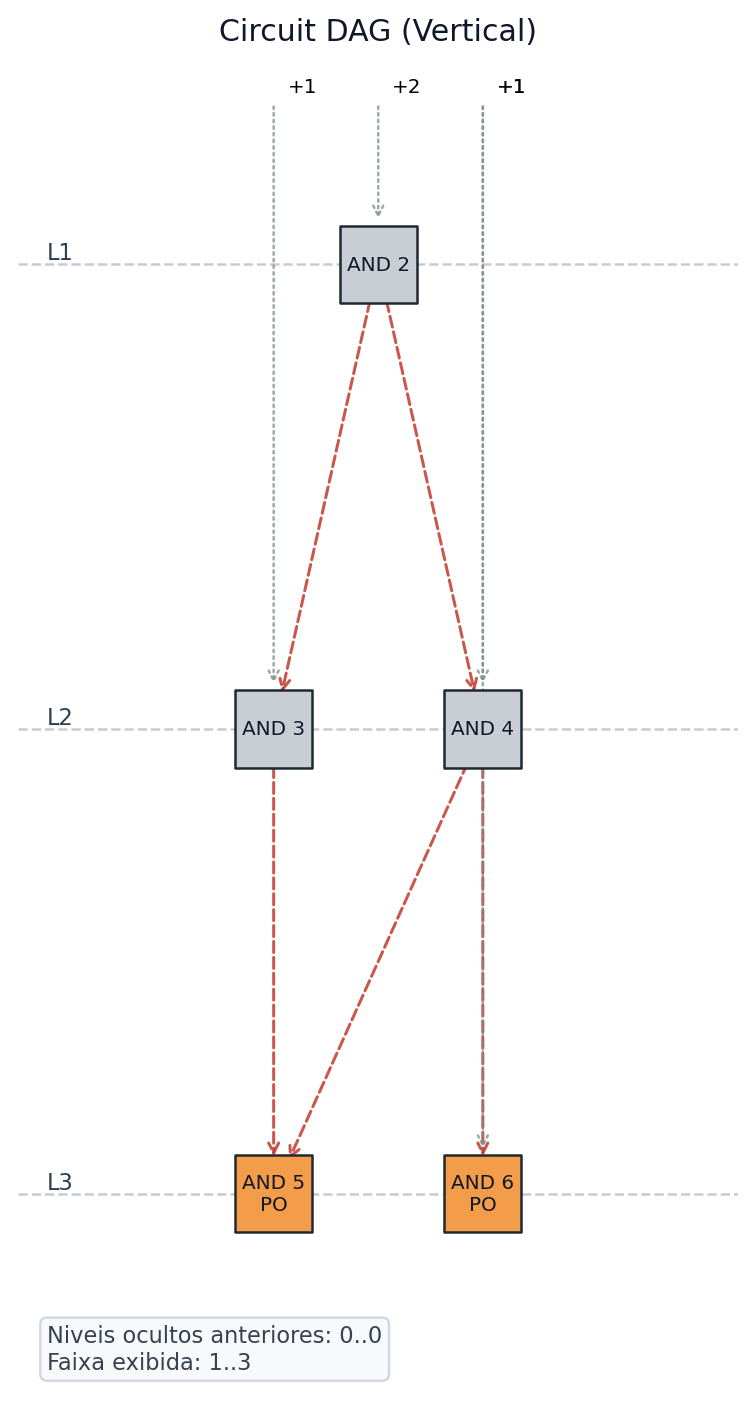
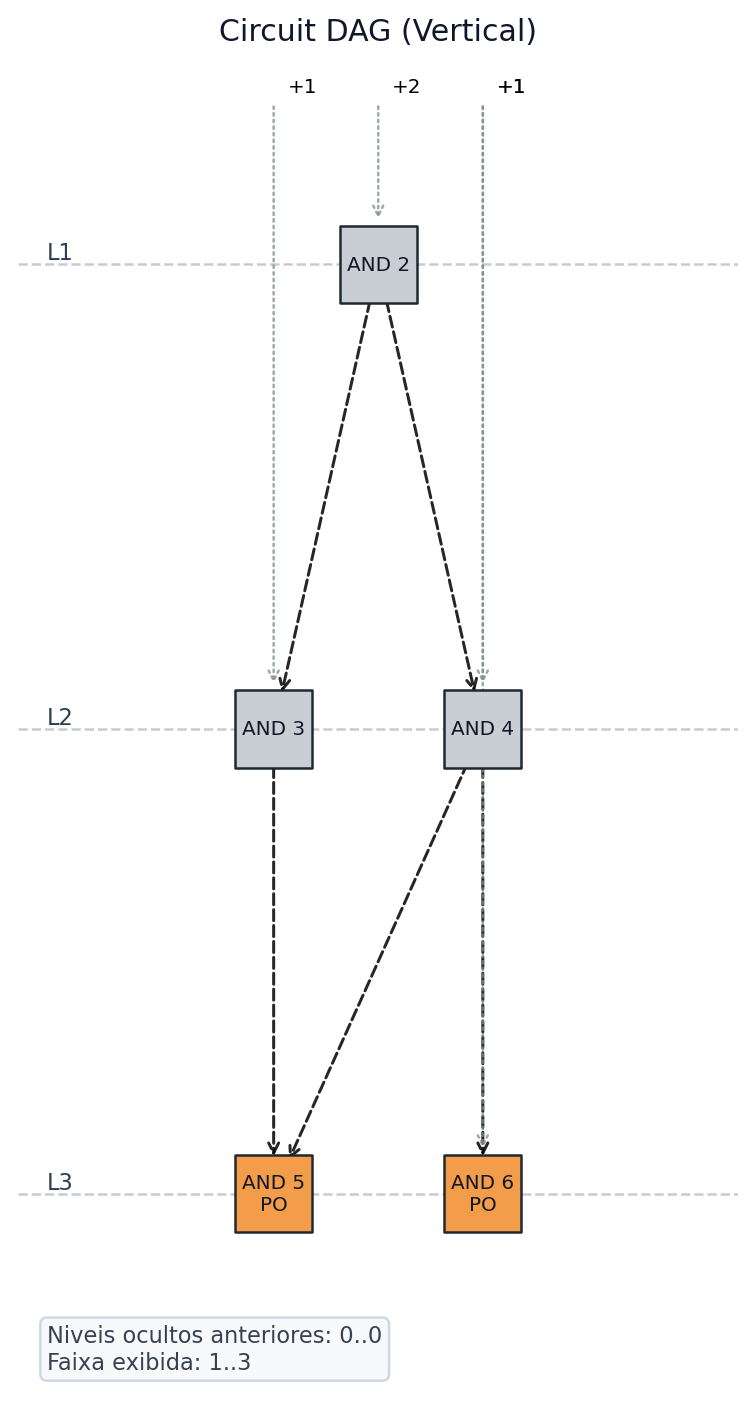
cores para os traços

diff --git a/README.md b/README.md
@@ -121,6 +121,30 @@ tb.visualize_dag(
 )
 ```
 
+#### Edge styling
+
+The renderer encodes extra information on the edges themselves:
+
+* **Dashed lines** mark inputs that are inverted by the consumer gate (the
+  destination node applies a `~` to that fanin before the operation).
+* **Colors** identify which fanout (output index) of the source node drives
+  the edge. This is only visible on nodes with more than one `fanout` entry,
+  since the Python parser always emits a single output per `assign`. The
+  palette cycles through:
+
+  | Source output index | Color |
+  |---|---|
+  | 0 | black |
+  | 1 | red |
+  | 2 | blue |
+  | 3 | green |
+  | 4 | purple |
+  | 5 | orange |
+  | 6 | cyan |
+  | 7 | brown |
+
+  Higher indices wrap around the same palette.
+
 The images below were generated using `test_files/simple.v`:
 
 **Horizontal (all levels):**
@@ -147,6 +171,52 @@ tb.visualize_dag(
     level_window=[1, 3],
 )
 ```
+
+To see the fanout color scheme in action, build a small circuit with a
+multi-output node by hand:
+
+```python
+from thermalbits import ThermalBits
+
+tb = ThermalBits()
+tb.file_name = "multi_output_example"
+tb.pi = [0, 1, 2]
+tb.po = [4, 5]
+tb.node = [
+    {
+        "id": 3,
+        "fanin": [[0, 0], [1, 0], [2, 0]],
+        "fanout": [
+            {"input": [0, 1], "invert": [0, 0], "op": "&"},
+            {"input": [0, 2], "invert": [1, 0], "op": "|"},
+            {"input": [1, 2], "invert": [0, 0], "op": "^"},
+        ],
+        "level": 1,
+        "suport": [0, 1, 2],
+    },
+    {
+        "id": 4,
+        "fanin": [[3, 0], [3, 1]],
+        "fanout": [{"input": [0, 1], "invert": [0, 0], "op": "&"}],
+        "level": 2,
+        "suport": [0, 1, 2],
+    },
+    {
+        "id": 5,
+        "fanin": [[3, 2], [0, 0]],
+        "fanout": [{"input": [0, 1], "invert": [0, 1], "op": "|"}],
+        "level": 2,
+        "suport": [0, 1, 2],
+    },
+]
+tb.visualize_dag(output_path="dag_multi_output_test.png", orientation="horizontal")
+```
+
+<img src="dag_multi_output_test.png" alt="Multi-output DAG showing fanout colors" width="520" />
+
+Note the black edge (output 0) and red edge (output 1) from node 3 into
+node 4, the blue edge (output 2) from node 3 into node 5, and the dashed
+edge from PI 0 into node 5 marking the inverted input.
 
 If necessary, install the visualization dependency:
 
